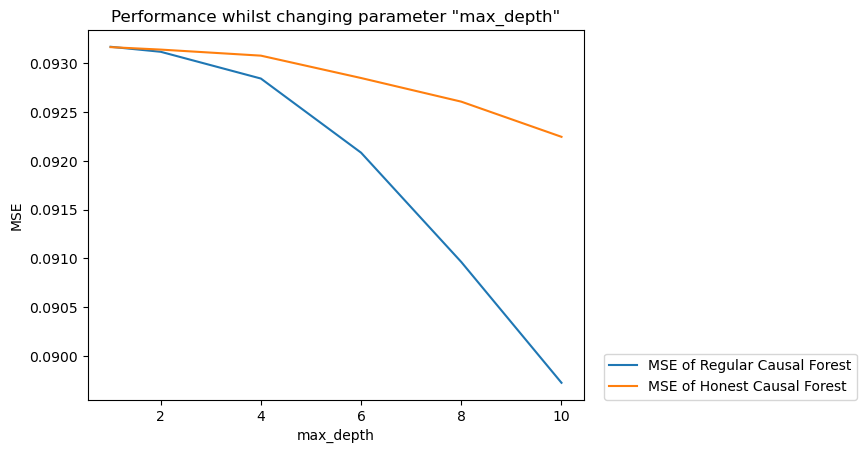
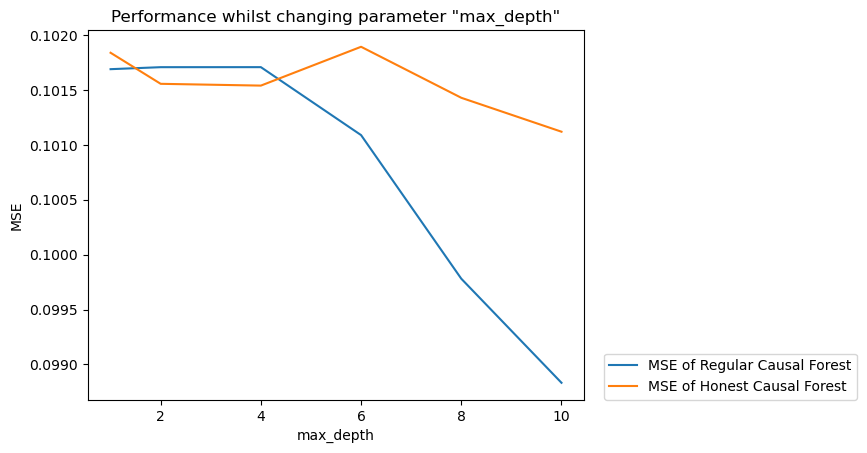
Update full twins max depth

diff --git a/sample/main.py b/sample/main.py
@@ -14,11 +14,12 @@ from parameterizer import Parameterizer
 def main():
     t = time.time_ns()
     print('STARTING...')
-    test_twins_with_max_depth()
+    test_twins_with_min_leaf_size()
     print(f'FINISHED IN {(time.time_ns() - t) * 1e-9} SECONDS.')
 
 
 def test_twins_with_min_leaf_size():
+
     leaf_size = [{'min_leaf_size': 1},
                  {'min_leaf_size': 5},
                  {'min_leaf_size': 10},
